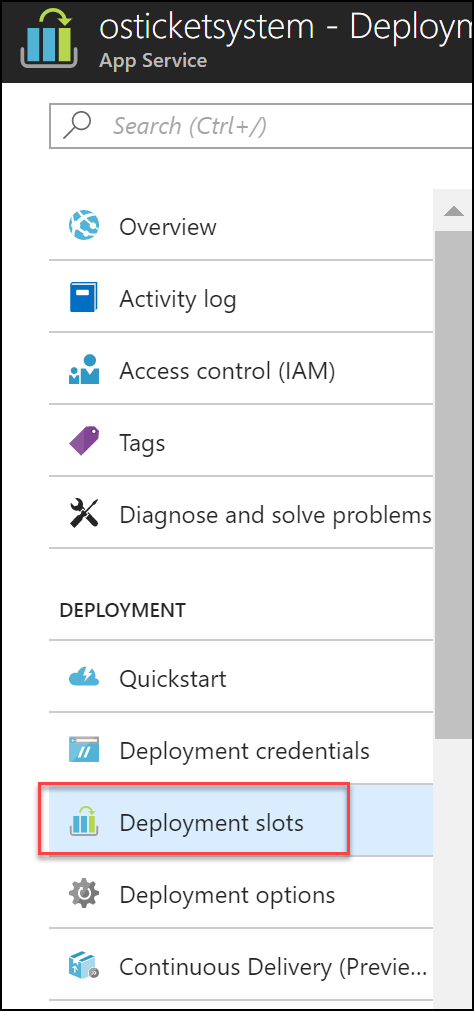
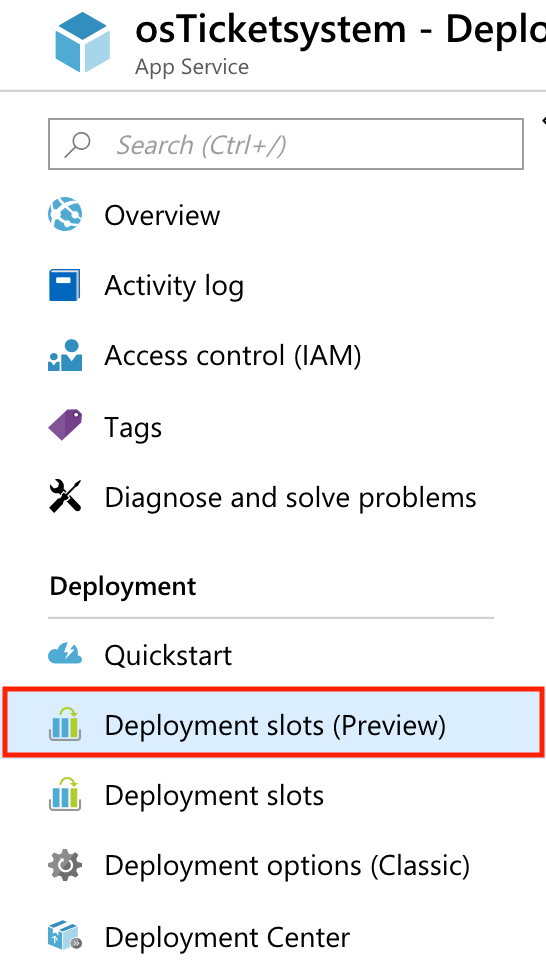
resolves #20

diff --git a/Hands-on lab/HOL step-by-step - OSS DevOps.md b/Hands-on lab/HOL step-by-step - OSS DevOps.md
@@ -27,32 +27,31 @@ Microsoft and the trademarks listed at https://www.microsoft.com/en-us/legal/int
 <!-- TOC -->
 
 - [OSS DevOps hands-on lab step-by-step](#oss-devops-hands-on-lab-step-by-step)
-    - [Abstract and learning objectives](#abstract-and-learning-objectives)
-    - [Overview](#overview)
-    - [Solution architecture](#solution-architecture)
-    - [Requirements](#requirements)
-        - [Help references](#help-references)
-    - [Exercise 1: Deploy the Web Application and Database to Azure](#exercise-1-deploy-the-web-application-and-database-to-azure)
-        - [Task 1: Create the MySQL database](#task-1-create-the-mysql-database)
-        - [Task 2: Restore the osTicket database to MySQL PaaS](#task-2-restore-the-osticket-database-to-mysql-paas)
-        - [Task 3: Create the Web App](#task-3-create-the-web-app)
-        - [Task 4: Configure the osTicket Web App](#task-4-configure-the-osticket-web-app)
-        - [Task 5: Configure FTP deployment credentials](#task-5-configure-ftp-deployment-credentials)
-        - [Task 6: Configure a staging slot](#task-6-configure-a-staging-slot)
-        - [Summary](#summary)
-    - [Exercise 2: Configure local Git repository](#exercise-2-configure-local-git-repository)
-        - [Task 1: Clone a GitHub repository locally](#task-1-clone-a-github-repository-locally)
-        - [Summary](#summary-1)
-    - [Exercise 3: Configure Git and Jenkins for continuous integration, delivery and deployment](#exercise-3-configure-git-and-jenkins-for-continuous-integration-delivery-and-deployment)
-        - [Task 1: Deploy a Jenkins server in Azure](#task-1-deploy-a-jenkins-server-in-azure)
-        - [Task 2: Post-deployment configuration of the Jenkins server](#task-2-post-deployment-configuration-of-the-jenkins-server)
-        - [Task 3: Configure Jenkins staging deployment](#task-3-configure-jenkins-staging-deployment)
-        - [Task 4: Configure your GitHub repo to notify Jenkins of changes](#task-4-configure-your-github-repo-to-notify-jenkins-of-changes)
-        - [Task 5: Check in a change to trigger Jenkins job](#task-5-check-in-a-change-to-trigger-jenkins-job)
-        - [Task 6: Manually deploy to production](#task-6-manually-deploy-to-production)
-        - [Summary](#summary-2)
-    - [After the hands-on lab](#after-the-hands-on-lab)
-        - [Task 1: Delete Resources](#task-1-delete-resources)
+  - [Abstract and learning objectives](#abstract-and-learning-objectives)
+  - [Overview](#overview)
+  - [Solution architecture](#solution-architecture)
+  - [Requirements](#requirements)
+    - [Help References](#help-references)
+  - [Exercise 1: Deploy the Web Application and Database to Azure](#exercise-1-deploy-the-web-application-and-database-to-azure)
+    - [Task 1: Create the MySQL database](#task-1-create-the-mysql-database)
+    - [Task 2: Restore the osTicket database to MySQL PaaS](#task-2-restore-the-osticket-database-to-mysql-paas)
+    - [Task 3: Create the Web App](#task-3-create-the-web-app)
+    - [Task 4: Configure the osTicket Web App](#task-4-configure-the-osticket-web-app)
+    - [Task 6: Configure a staging slot](#task-6-configure-a-staging-slot)
+    - [Summary](#summary)
+  - [Exercise 2: Configure local Git repository](#exercise-2-configure-local-git-repository)
+    - [Task 1: Clone a GitHub repository locally](#task-1-clone-a-github-repository-locally)
+    - [Summary](#summary-1)
+  - [Exercise 3: Configure Git and Jenkins for continuous integration, delivery and deployment](#exercise-3-configure-git-and-jenkins-for-continuous-integration-delivery-and-deployment)
+    - [Task 1: Deploy a Jenkins server in Azure](#task-1-deploy-a-jenkins-server-in-azure)
+    - [Task 2: Post-deployment configuration of the Jenkins server](#task-2-post-deployment-configuration-of-the-jenkins-server)
+    - [Task 3: Configure Jenkins staging deployment](#task-3-configure-jenkins-staging-deployment)
+    - [Task 4: Configure your GitHub repo to notify Jenkins of changes](#task-4-configure-your-github-repo-to-notify-jenkins-of-changes)
+    - [Task 5: Check in a change to trigger Jenkins job](#task-5-check-in-a-change-to-trigger-jenkins-job)
+    - [Task 6: Manually deploy to production](#task-6-manually-deploy-to-production)
+    - [Summary](#summary-2)
+  - [After the hands-on lab](#after-the-hands-on-lab)
+    - [Task 1: Delete Resources](#task-1-delete-resources)
 
 <!-- /TOC -->
 
@@ -114,10 +113,12 @@ In this exercise, you will deploy the web application and database to Azure usin
 
 3.  Execute the following command to create a MySQL Database:
 
->**Note**: You must choose a unique name for the MySQL server. Replace **osTicketsrv01** with a more unique value.
+    >**Note**: You must choose a unique name for the MySQL server. Replace **osticketsrv01** with a more unique value.
 
+    ```
     az mysql server create --resource-group OsTicketPaaSRG --name osticketsrv01 --location "East US" --admin-user demouser --admin-password demo@pass123 --sku-name B_Gen5_2 --storage-size 51200 --ssl-enforcement Disabled
-
+    ```
+    
 4.  Add an open firewall rule to the database by executing the following command. Ensure you replace the server name with the unique value from the previous step.
     
     ```
@@ -143,7 +144,7 @@ In this exercise, you will deploy the web application and database to Azure usin
 
     ![Under Essentials, the Server name and Server admin login name are circled. The Server name is osticketmysql.mysql.database.azure.com, and the login name is demouser\@osticketmysql](images/Hands-onlabstep-by-step-OSSDevOpsimages/media/image22.png "Essentials section")
 
-11. Replace the placeholders for **User Id=** and **Data Source=** in the connection string in notepad to the Server name and Server admin login name values.
+11. Here is a sample of what your connection string will be similar to.
 
     ![In the Notepad window, the Web App Script displays.](images/Hands-onlabstep-by-step-OSSDevOpsimages/media/image20.png "Notepad window")
 
@@ -207,7 +208,7 @@ In this exercise, you will deploy the web application and database to Azure usin
 
     ![On the Data Import page, on the Import from Disk tab, under Import options, Import from Self-Contained File is selected, and the location is C:\\HOL\\mysqlcluster.sql.](images/Hands-onlabstep-by-step-OSSDevOpsimages/media/image32.png "Data Import page")
 
-12. Choose new, next to the **Default Schema to be Imported To**.
+12. Choose **New...**, next to the **Default Schema to be Imported To**.
 
     ![On the Data Import page, on the Import from Disk tab, the New button is selected.](images/Hands-onlabstep-by-step-OSSDevOpsimages/media/image33.png "Data Import page")
 
@@ -265,23 +266,23 @@ In this exercise, you will deploy the web application and database to Azure usin
     az webapp create -n osTicketsystem -g OsTicketPaaSRG -p OsTicket -r "php|7.0"
     ```
 
-4.  Once the deployment has completed, open the **OsTicketPaaSRG** resource group. Notice there are now three objects: **MySQL database, Linux App Service Plan** and the **Web App**.
+4.  Once the deployment has completed, open the **OsTicketPaaSRG** resource group. Notice there are now three objects: **Azure Database for MySQL server, App Service plan** and the **App Service** web app.
 
     ![On the Resource group blade, Overview is selected. Under Essentials, a callout points to the OsTicket App Service plan.](images/Hands-onlabstep-by-step-OSSDevOpsimages/media/image42.png "Resource group blade")
 
 ### Task 4: Configure the osTicket Web App
 
-1.  Open the Web App using the Azure portal. Notice the details of the application including the **URL**.
+1.  Open the Web App using the Azure portal to click on the App Service. Notice the details of the application including the **URL**.
 
     ![On the App Service blade, Overview is selected. Under Essentials, a callout points to the URL live link http://osticketsystem.azurewebsites.net.](images/Hands-onlabstep-by-step-OSSDevOpsimages/media/image43.png "App Service blade")
 
-2.  If you select the **URL**, the default webpage will load.
+2.  If you select the **URL**, the default webpage will load indicating our App Service app is up and running.
 
 3.  In the Azure portal, select **Application settings** in the Settings area
 
     ![Under Settings, Application settings is selected.](images/Hands-onlabstep-by-step-OSSDevOpsimages/media/image44.png "Settings section")
 
-4.  Locate the Connection Strings section. Choose **+ Add new connection string** and enter the name **osTicket** and copy the connection string from notepad into the **value area**. Select **MySQL** in the dropdown list next to the string. Select **Save**.
+4.  Locate the Connection Strings section. Choose **+ Add new connection string** and enter the name **osticket** and copy the connection string from notepad into the **value area**. Select **MySQL** in the **TYPE** dropdown list next to the string. Select **Save**.
 
     ![Under Connection strings, the osticket connection string displays.](images/Hands-onlabstep-by-step-OSSDevOpsimages/media/image45.png "Connection strings section")
 
@@ -323,23 +324,27 @@ In this exercise, you will deploy the web application and database to Azure usin
 
     ![The text field under Commit changes reads, \"Updated MySQL Server Settings.\" The option to Commit directly to the master branch is selected, as is the Commit Changes button at the bottom. ](images/Hands-onlabstep-by-step-OSSDevOpsimages/media/image54.png "Commit changes section")
 
-### Task 5: Configure FTP deployment credentials 
+*** Task 5: Configure Deployment Center
 
-Since you will be leveraging Jenkins to deploy the source code, you must first update the credentials that are used for an FTP deployment.
+Since you will be leveraging Jenkins to deploy the source code, you must first configure Deployment Center.
 
-1.  In the Azure portal, choose **Resource groups \> OsTicketPaaSRG** and select the App Service to open the settings of the App Service.
+1.  In the Azure portal, choose **Resource groups \> OsTicketPaaSRG** and then select the **App Service** to open the settings of the App Service.
+   
+2.  Select **Deployment Center** and click on **FTP**.
 
-2.  Select Deployment credentials, specify a globally unique username (**AppServiceFTPUser\<makethisunique\>**) / password (**demo\@pass123**), and choose **Save.** 
+3.  Click the **Dashboard** button at the bottom of the screen.
 
->**Note**: The username must be globally unique, so you may have to append some numbers to make it unique.
+4.  The Application Credentials will be-auto generated and your configuration will be similar to the one shown below.
 
-   ![Screenshot showing how to configure the Deployment Credentials that will be used by Jenkins.](images/Hands-onlabstep-by-step-OSSDevOpsimages/media/image55.png "Deployment credentials blade")
+    ![Screenshot showing how to configure the Deployment Center FTP credentials that will be used by Jenkins.](images/Hands-onlabstep-by-step-OSSDevOpsimages/media/image107.png "Deployment Center FTP credentials blade")
+
+5.  Close the FTP blade.
 
 ### Task 6: Configure a staging slot
 
 1.  In the Azure portal, select **Resource groups \> OsTicketPaaSRG** and select the App Service to open the settings of the App Service.
 
-2.  Choose **Deployment slots** under the **DEPLOYMENT** category.
+2.  Choose **Deployment slots (Preview)** under the **Deployment** category.
 
     ![Screenshot showing where the Deployment slots menu item is located in the Azure Portal.](images/Hands-onlabstep-by-step-OSSDevOpsimages/media/image56.png "Deployment slots")
 
@@ -347,17 +352,19 @@ Since you will be leveraging Jenkins to deploy the source code, you must first u
 
     ![Screenshot showing how to add a deployment slot.](images/Hands-onlabstep-by-step-OSSDevOpsimages/media/image57.png "Adding a slot")
 
-4.  Name the slot **Staging**, specify the primary site as the **Configuration Source** (this will copy over all the variables and their values we defined previously as well as the connection string), and select **OK** to create the deployment slot.
+4.  Name the slot **Staging**, specify the **osTicketsystem** as the **CClong settings from** (this will copy over all the variables and their values we defined previously as well as the connection string), and select **Add** to create the deployment slot.
 
-5.  Select on the deployment slot once it shows up in the list.
+5.  Click **Close** to close the **Add a slot** panel.
+
+6.  Select on the deployment slot once it shows up in the list.
     
     ![Screenshot of the deployment slots.](images/Hands-onlabstep-by-step-OSSDevOpsimages/media/image58.png "Deployment slots")
 
-6.  Once the staging slot has been created, select its name. On the **Overview** link, choose on the **URL** from the staging slot's essentials pane.
+7.  Once the staging slot has been created, select its name. On the **Overview** link, choose on the **URL** from the staging slot's essentials pane.
 
     ![Screenshot of the link to the staging deployment slot.](images/Hands-onlabstep-by-step-OSSDevOpsimages/media/image59.png "Overview blade")
 
-7.  At this time, no code has been deployed to either production or the staging slot we just created. Both URLs will have the default website like the one below. You will be leveraging Jenkins and GitHub in the exercises that follow to deploy the website.
+8.  At this time, no code has been deployed to either production or the staging slot we just created. Both URLs will have the default website like the one below. You will be leveraging Jenkins and GitHub in the exercises that follow to deploy the website.
 
     ![Screenshot of the default App Service deployment.](images/Hands-onlabstep-by-step-OSSDevOpsimages/media/image60.png "Default app service page")
 
@@ -427,11 +434,6 @@ Jenkins is an open source continuous integration tool written in Java. It provid
     
     ![In the additional settings blade, specifying the VM size.](images/Hands-onlabstep-by-step-OSSDevOpsimages/media/image64.png)
 
-5. Choose the **Virtual network** field and choose **Create new**. On the new dialog set the **Address space** to **10.0.0.0/16**.
-
-    ![In the create virtual network blade, specifying the address space 10.0.0.0/16 for the jenkins-vnet virtual network.](media/jenkins-vnet.png)
-
-
 5.  Choose the **Configure subnets** field to view the existing subnet configuration and leave the values to the defaults and select **OK**. Then, enter a unique name in the **Domain name label field**, and choose **OK** on the **Additional** **Settings** blade.
 
     ![In the configure subnets blade, specifying the subnet address space.](images/Hands-onlabstep-by-step-OSSDevOpsimages/media/image65.png)
@@ -469,7 +471,7 @@ Go to the Overview page of the Jenkins VM, copy the DNS name, and open the URL i
 
     ![Screenshot of Jenkins immediately after logging in.](images/Hands-onlabstep-by-step-OSSDevOpsimages/media/image68.png "Jenkins home page")
 
-7.  Once logged into the portal, notice the version of Jenkins (**2.107.2** as of the writing of this lab). Choose **Manage Jenkins** for more details.
+7.  Once logged into the portal, notice the version of Jenkins (**2.150.1** as of the writing of this lab). Choose **Manage Jenkins** for more details.
 
     ![On the Jenkins dashboard, Manage Jenkins is selected.](images/Hands-onlabstep-by-step-OSSDevOpsimages/media/image69.png "Jenkins dashboard")
 
@@ -479,11 +481,11 @@ Go to the Overview page of the Jenkins VM, copy the DNS name, and open the URL i
 
     ![The previously defined options are selected on the Jenkins dashboard.](images/Hands-onlabstep-by-step-OSSDevOpsimages/media/image70.png "Jenkins dashboard")
 
-10. There are three Plug-Ins you need to install for the next exercises. Choose the Available tab, and type **github** in the Filter field. Select the check box for **GitHub**, and choose **Install without restart**. Its version is at 1.29.0 as of this writing. You may need to scroll down to find it.
+10. There are three Plug-Ins you need to install for the next exercises. Choose the Available tab, and type **github** in the Filter field. Select the check box for **GitHub**, and choose **Install without restart**. Its version is at 1.29.3 as of this writing. You may need to scroll down to find it.
 
     ![A screenshot showing searching by GitHub](images/Hands-onlabstep-by-step-OSSDevOpsimages/media/image71.png "Filter box")
 
-11. Next, choose the Available tab and type **Workspace Cleanup**. Choose the check box for **Workspace Cleanup Plugin** and select **Install without restart**.
+11. Next, choose the Available tab and type **Workspace Cleanup**. Choose the check box for **Workspace Cleanup** and select **Install without restart**.
 
     ![The previously defined options are selected on the Available tab.](images/Hands-onlabstep-by-step-OSSDevOpsimages/media/image72.png "Available tab")
 
@@ -503,7 +505,7 @@ Go to the Overview page of the Jenkins VM, copy the DNS name, and open the URL i
 
     ![On the Jenkins dashboard, the previously defined options are selected.](images/Hands-onlabstep-by-step-OSSDevOpsimages/media/image75.png "Jenkins dashboard")
 
-17. Under **Git**, ensure the **Name** is set to ***Default***, and the **Path to Git executable** is set to ***git**.
+17. Under **Git**, ensure the **Name** is set to ***Default***, and the **Path to Git executable** is set to **git**.
 
 18. Select **Save**.
 
@@ -521,21 +523,29 @@ You are now ready to define your staging deployment job.
 
     ![In the Publish over FTP section, the Add button is selected.](images/Hands-onlabstep-by-step-OSSDevOpsimages/media/image77.png "Publish over FTP section")
 
-4.  The information that is needed here can be obtained from the settings of the App Service in Azure. Since you will be deploying to the Staging slot, be sure to get the information from the staging slot settings.
+4.  The information that is needed here can be obtained from the staging slot Web App in the Azure portal.
 
->**Note**: The only difference between the different slots is the username. The FTP URL is the same.
+    ![Screenshot showing the deployed resources including the staging slot from the Azure portal.](images/Hands-onlabstep-by-step-OSSDevOpsimages/media/image108.png "Staging slot")
 
-![Screenshot showing the FTP credentials to be used from the Azure portal.](images/Hands-onlabstep-by-step-OSSDevOpsimages/media/image78.png "FTP credentials")
+5.  After selecting the staging slot, click on **Deployment Center** and then **FTP** and then click the **Dashboard** button.
 
-5.  Update the Plug-In settings with the following information, and choose **Save** (after confirming the connection is successful by selecting **Test Configuration**):
+    ![Screenshot showing the FTP credentials to be used from the Azure portal.](images/Hands-onlabstep-by-step-OSSDevOpsimages/media/image107.png "FTP credentials")
+
+5.  Update the Plug-In settings with the following information, and click **Save** (after confirming the connection is successful by clicking **Test Configuration**):
 
     -   Name: **Staging Slot for Web App**
 
     -   Hostname: \<**ftp hostname from web app staging slot settings**\>
 
+        >NOTE: Be sure not to include the **ftps://** portion of the hostname.
+
     -   Username: \<**username from web app staging slot settings**\>
 
-    -   Password: **demo\@pass123**
+    -   Password: \<**password from the web app staging slot settings**\>
+
+    -   Remote Directory: \<**remove any path after the hostname above and paste it into this field (i.e. /site/wwwroot**>
+
+        >NOTE: Be sure to remove any path information from the **Hostname** field and place it into the **Remote Directory** field.
 
         ![Fields in the Publish over FTP dialog box are set to the previously mentioned settings.](images/Hands-onlabstep-by-step-OSSDevOpsimages/media/image79.png "Publish over FTP dialog box")
 
@@ -547,7 +557,7 @@ You are now ready to define your staging deployment job.
 
     ![The previously mentioned options are selected on the Jenkins New Item page.](images/Hands-onlabstep-by-step-OSSDevOpsimages/media/image81.png "Jenkins New Item page")
 
-8.  In the **Source Code Management** section, choose Git and specify your GitHub repository URL. Choose **Add** to configure your credentials.
+8.  On the **Source Code Management** tab, choose Git and specify your GitHub repository URL. Choose **Add** to configure your credentials.
 
     ![Screenshot of the Source Code Management panel.](images/Hands-onlabstep-by-step-OSSDevOpsimages/media/image82.png "Source code management")
 

diff --git a/Hands-on lab/Before the HOL - OSS DevOps.md b/Hands-on lab/Before the HOL - OSS DevOps.md
@@ -27,11 +27,12 @@ Microsoft and the trademarks listed at <https://www.microsoft.com/en-us/legal/in
 
 <!-- TOC -->
 
-- [OSS DevOps before the hands-on lab setup guide](#OSS-DevOps-before-the-hands-on-lab-setup-guide) 
-    - [Requirements](#requirements)
-    - [Before the hands-on lab](#before-the-hands-on-lab)
-        - [Task 1: Create a virtual machine to execute the lab](#task-1-create-a-virtual-machine-to-execute-the-lab)
-        - [Task 2: Install the MySQL Workbench](#task-2-install-the-mysql-workbench)
+- [OSS DevOps before the hands-on lab setup guide](#oss-devops-before-the-hands-on-lab-setup-guide)
+  - [Requirements](#requirements)
+  - [Before the hands-on lab](#before-the-hands-on-lab)
+    - [Task 1: Create a virtual machine to execute the lab](#task-1-create-a-virtual-machine-to-execute-the-lab)
+    - [Task 2: Install Chrome](#task-2-install-chrome)
+    - [Task 3: Install the MySQL Workbench](#task-3-install-the-mysql-workbench)
 
 <!-- /TOC -->
 
@@ -51,7 +52,7 @@ Duration: 30 Minutes
 
 1.  Launch a browser and navigate to <https://portal.azure.com>. Once prompted, login with your Microsoft Azure credentials. If prompted, choose whether your account is an organization account or just a Microsoft Account.
 
-2.  Click on **+NEW**, and in the search box type in **Visual Studio Community 2017 on Windows Server 2016 (x64)** and press enter. Click the Visual Studio Community 2017 image running on Windows Server 2016 and with the latest update.
+2.  Click on **+Create a resource**, and in the search box type in **Visual Studio Community 2017 on Windows Server 2016 (x64)** and press enter. Click the Visual Studio Community 2017 image running on Windows Server 2016 and with the latest update.
 
 3.  In the returned search results, click the image name.
 
@@ -59,43 +60,35 @@ Duration: 30 Minutes
 
 5.  Set the following configuration on the Basics tab and click **OK**:
 
-    -   Name: **LABVM**
-
-    -   VM disk type: **SSD**
-
-    -   User name: **demouser**
-
-    -   Password: **demo\@pass123**
-
     -   Subscription: **If you have multiple subscriptions, choose the subscription to execute your labs in.**
 
     -   Resource Group: **OPSLABRG**
 
-    -   Location: **Choose the closest Azure region to you.**
+    -   Virtual machine name: **LABVM**
+   
+    -   Region: **Choose the closest Azure region to you.**
 
-6.  Choose the **DS1\_V2 Standard** instance size on the Size blade.
+    -   VM disk type: **SSD**
 
->**Note**: You may have to click the View All link to see the instance sizes.
+    -   Size: **DS1\_V2 Standard**
 
-7.  Click **Storage Account** *Configure required settings* to specify a storage account for your virtual machine if a storage account name is not automatically selected for you.
+        >**Note**: You may have to click the View All link to see the instance sizes.
+    
+    -   Username: **demouser**
 
-8.  Click **Create New**.
+    -   Password: **demo\@pass123**
 
-9.  Specify a unique name for the storage account (all lower letters and alphanumeric characters) and ensure the green checkmark shows the name is valid.
+    -   Select the **Allow selected ports** radio button and check **RDP (3389)**.
 
-10. Click **OK** to continue.
+6.  Accept the  default values on the remaining blades and click **Review + create**. On the Review + create page click **Create**. The deployment should begin provisioning. It may take 10+ minutes for the virtual machine to complete provisioning.
 
-11. Click **Diagnostics Storage Account** *Configure required settings* for the Diagnostics storage account if a storage account name is not automatically selected for you. Repeat the previous steps to select a unique storage account name. This storage account will hold diagnostic logs about your virtual machine that you can use for troubleshooting purposes.
+    >**Note**: Please wait for the LABVM to be provisioned prior to moving to the next step.
 
-12. Accept the remaining default values on the Settings blade and click **OK**. On the Summary page click **Create**. The deployment should begin provisioning. It may take 10+ minutes for the virtual machine to complete provisioning.
+7. Move back to the Portal page on your local machine and wait for **LABVM** to show the Status of **Running**. Click **Connect** to establish a new Remote Desktop Session.
 
->**Note**: Please wait for the LABVM to be provisioned prior to moving to the next step.
+8. Depending on your remote desktop protocol client and browser configuration you will either be prompted to open an RDP file, or you will need to download it and then open it separately to connect.
 
-13. Move back to the Portal page on your local machine and wait for **LABVM** to show the Status of **Running**. Click **Connect** to establish a new Remote Desktop Session.
-
-14. Depending on your remote desktop protocol client and browser configuration you will either be prompted to open an RDP file, or you will need to download it and then open it separately to connect.
-
-15. Log in with the credentials specified during creation:
+9. Log in with the credentials specified during creation:
 
     a.  User: **demouser**
 
@@ -105,17 +98,27 @@ Duration: 30 Minutes
 
 17. When logging on for the first time you will see a prompt on the right asking about network discovery. Click **No**.
 
-18. Notice that Server Manager opens by default. On the left, click **Local Server**.
+18. After a few moments, notice that Server Manager opens by default. Close this window.
 
-19. On the right side of the pane, click **On** by **IE Enhanced Security Configuration**.
+19. On the right side of the pane, click **Off** next to **IE Enhanced Security Configuration**.
 
-20. Change to **Off** for Administrators and click **OK**.
+20. Change to **Off** for Users and click **OK**.
 
-### Task 2: Install the MySQL Workbench
+### Task 2: Install Chrome
 
-1.  While logged into **LABVM** via remote desktop, open Internet Explorer and navigate to: <https://dev.mysql.com/downloads/workbench/>. 
+1.  While logged into **LABVM** via remote desktop, open Internet Explorer and navigate to: <https://www.google.com/chrome/>.
 
-    Select "Microsoft Windows" from the "Select Operating System:" dropdown and the executable package. After the download is finished, click **Run** to execute it.
+2.  Click the **Download Chrome** button.
+
+3.  Press **Accept and Install** when prompted.
+
+4.  Press **Run** when prompted to download and begin the installation.
+
+### Task 3: Install the MySQL Workbench
+
+1.  While logged into **LABVM** via remote desktop, open Chrome and navigate to: <https://downloads.mysql.com/archives/workbench/>. 
+
+    Select "Microsoft Windows" from the "Operating System:" dropdown and download the executable package. After the download is finished, click **Run** to execute it.
 
 2.  Follow the directions of the installer to complete the installation of MySQL Workbench.
 
